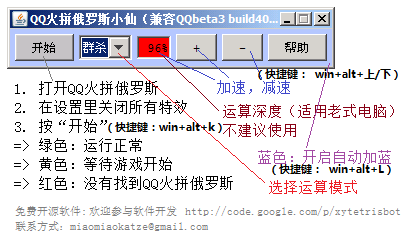
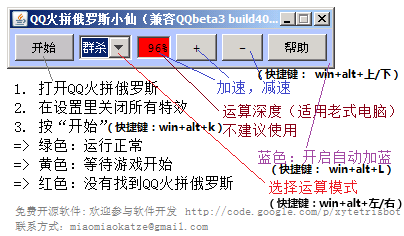
added left/right hotkeys to switch strategy

Changed region(s): [[0.6535, 0.8305, 1.0, 0.8898]]

diff --git a/src/cn/keke/qqtetris/QQTetris.java b/src/cn/keke/qqtetris/QQTetris.java
@@ -306,6 +306,8 @@ public final class QQTetris extends JFrame implements HotkeyListener {
             JIntellitype.getInstance().registerHotKey(2, JIntellitype.MOD_WIN + JIntellitype.MOD_ALT, KeyEvent.VK_UP);
             JIntellitype.getInstance().registerHotKey(3, JIntellitype.MOD_WIN + JIntellitype.MOD_ALT, KeyEvent.VK_DOWN);
             JIntellitype.getInstance().registerHotKey(4, JIntellitype.MOD_WIN + JIntellitype.MOD_ALT, KeyEvent.VK_L);
+            JIntellitype.getInstance().registerHotKey(5, JIntellitype.MOD_WIN + JIntellitype.MOD_ALT, KeyEvent.VK_LEFT);
+            JIntellitype.getInstance().registerHotKey(6, JIntellitype.MOD_WIN + JIntellitype.MOD_ALT, KeyEvent.VK_RIGHT);
             JIntellitype.getInstance().addHotKeyListener(this);
         } catch (Throwable t) {
             System.err.println(t.toString());
@@ -388,6 +390,7 @@ public final class QQTetris extends JFrame implements HotkeyListener {
     // }
 
     public void onHotKey(int identifier) {
+    	int selected = QQTetris.cbStrategy.getSelectedIndex();
         switch (identifier) {
         case 1:
             startStopAction();
@@ -405,6 +408,16 @@ public final class QQTetris extends JFrame implements HotkeyListener {
                 QQTetris.autoBlue = true;
             }
             break;
+        case 5:
+        	  if (selected > 0) {
+        	  	  QQTetris.cbStrategy.setSelectedIndex(selected - 1);
+        	  }
+        	  break;
+        case 6:
+        	  if (selected < StrategyType.values().length - 1) {
+    	  	      QQTetris.cbStrategy.setSelectedIndex(selected + 1);
+    	      }
+        	  break;
         default:
             break;
         }
